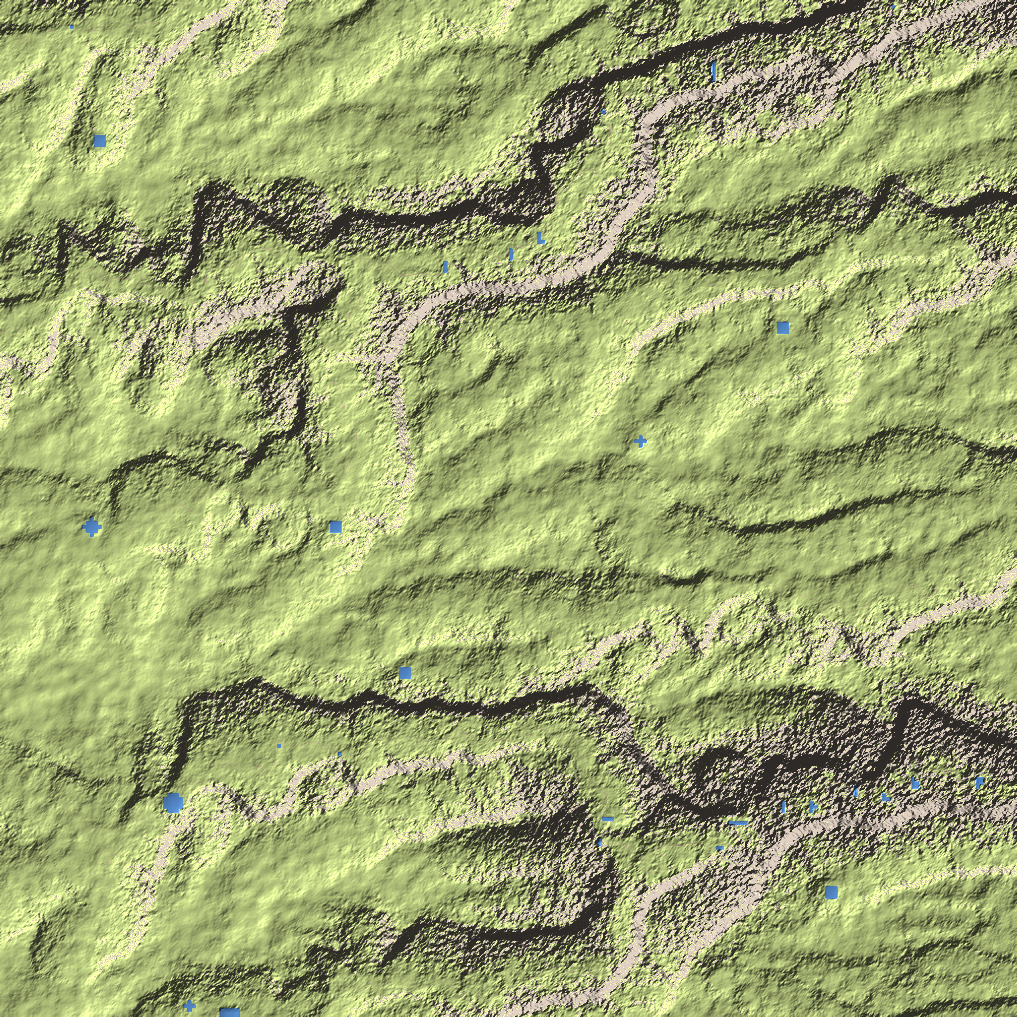
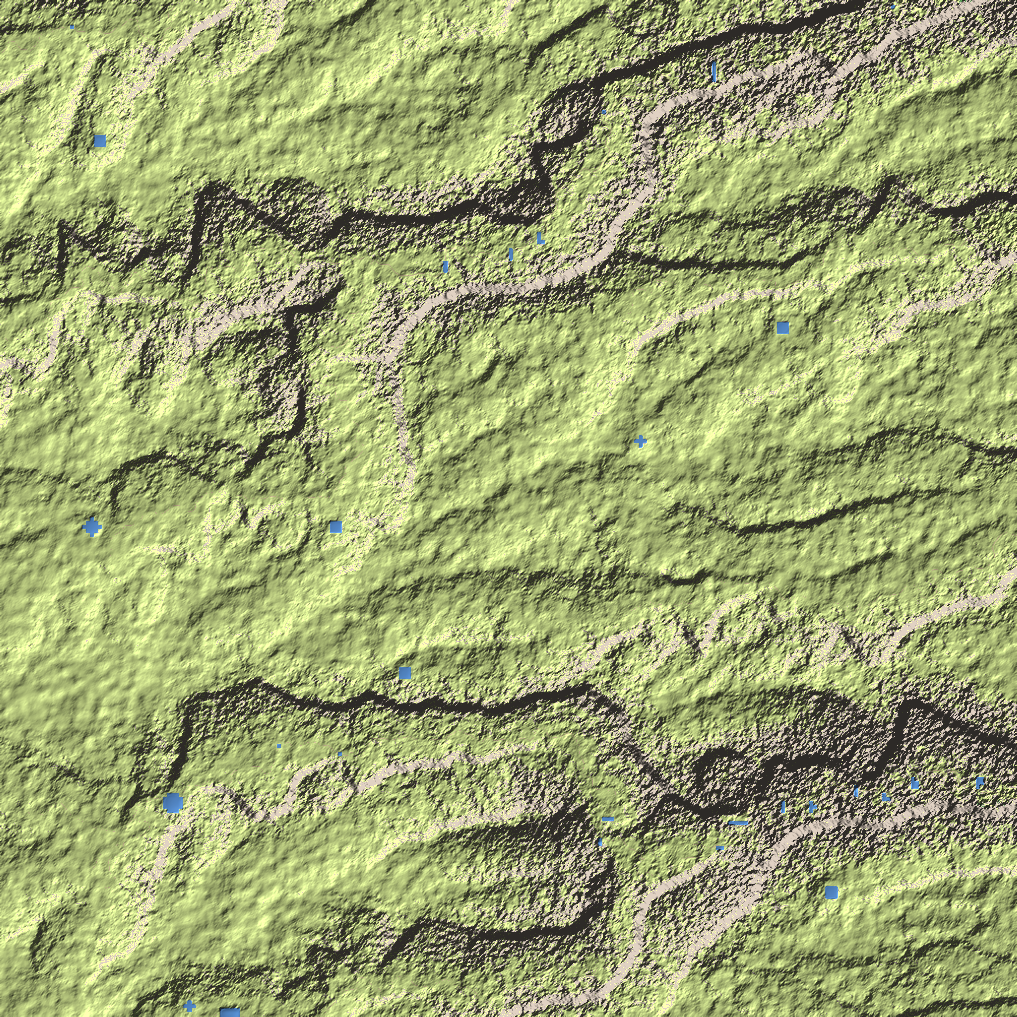
Denser valley network in 25 m refinement; roughness check rescoped to landscape scale (Perron et al. 2008)
Claude-Session: https://claude.ai/code/session_01KF85DV7pzGDALPv8H3oUJH

diff --git a/fictional_map/regions/southern_coast_range/scripts/validate_plots.py b/fictional_map/regions/southern_coast_range/scripts/validate_plots.py
@@ -19,6 +19,8 @@ import detail_plots as dp
 SOURCES = {
     "spectrum": ("Why is topography fractal? (arXiv:physics/9705033): transect spectra S(k) ~ k^-2",
                  "https://arxiv.org/pdf/physics/9705033"),
+    "perron": ("Perron, Kirchner & Dietrich 2008, Spectral signatures of characteristic spatial scales and nonfractal structure in landscapes (JGR, doi:10.1029/2007JF000866)",
+               "https://earthref.org/ERR/119557/"),
     "treeline": ("Koerner & Paulsen 2004, A world-wide study of high altitude treeline temperatures (abstract)",
                  "https://edoc.unibas.ch/8594"),
     "ue": ("Unreal Engine Landscape Technical Guide",
@@ -42,6 +44,7 @@ tiles = sorted(os.path.basename(p) for p in glob.glob(os.path.join(REGION_DIR, "
 if not tiles:
     raise SystemExit("No exported plots in ../export - run detail_plots.py first.")
 have = {t: tuple(int(v[1:]) for v in t.replace("tile_", "").split("_")) for t in tiles}
+INFO = []             # hillslope-scale spectral exponents (reported, not checked)
 EDGES = {}            # only the four edges of each plot are kept in memory (a full plot is 0.5 GB as float64)
 
 prep = dict(np.load(dp.PREP))
@@ -57,10 +60,12 @@ for t, (c, r) in have.items():
     xs_ = np.arange(rows.shape[1])
     rows2 = z[::256, :] - np.array([np.polyval(np.polyfit(xs_, r, 1), xs_) for r in z[::256, :]])
     ps = np.mean(np.abs(np.fft.rfft(rows2 * win, axis=1)) ** 2, axis=0)
-    band = (k > 1 / 2000.0) & (k < 1 / 100.0)
+    band = (k > 1 / 10000.0) & (k < 1 / 500.0)
     beta = -np.polyfit(np.log(k[band]), np.log(ps[band]), 1)[0]
-    check("Earth data", f"{t}: spectral exponent beta of height transects (100 m - 2 km)", beta, "~2 (1.8-2.1 reported)",
-          1.6, 2.6, "", "spectrum", "hillslope scale; below ~20 m soil-covered ground is smoother")
+    check("Earth data", f"{t}: spectral exponent beta of height transects (500 m - 10 km)", beta, "~2 (1.8-2.1 reported)",
+          1.6, 2.6, "", "spectrum", "landscape scale, where topography behaves as a fractal")
+    hb = (k > 1 / 2000.0) & (k < 1 / 100.0)
+    INFO.append((t, round(float(-np.polyfit(np.log(k[hb]), np.log(ps[hb]), 1)[0]), 2)))
     # --- faithful to the regional model (100 m averages) ---
     x0 = -HALF_M + c * dp.TILE_M; y0 = HALF_M - r * dp.TILE_M
     sub = z[::32, ::32]
@@ -93,6 +98,9 @@ lines = ["# Validation of the exported plots — region `southern_coast_range`",
          "Generated by `scripts/validate_plots.py` for the plots present in `export/`.", "",
          f"**Result: {passed} / {len(checks)} checks passed** ({len(tiles)} plots, {pairs} shared edges).", "",
          f"Treeline (growing-season mean 6.7 C, Koerner & Paulsen 2004): median height {treeline_median_m:.0f} m.", "",
+         "Hillslope-scale spectral exponents (100 m - 2 km), reported only: landscapes are not fractal at the scale of their "
+         "ridge-and-valley spacing (Perron et al. 2008), so no Earth band applies there. "
+         + ", ".join(f"{t}: {b}" for t, b in INFO), "",
          "| Kind | Check | Value | Reference | Accepted band | Result | Source |", "|---|---|---|---|---|---|---|"]
 for c_ in checks:
     u = f" {c_['unit']}" if c_["unit"] else ""

diff --git a/fictional_map/regions/southern_coast_range/scripts/refine_25m.py b/fictional_map/regions/southern_coast_range/scripts/refine_25m.py
@@ -20,11 +20,11 @@ from region_flow import accumulate, diffuse, route, stream_power
 
 DX = 25.0
 MARGIN_M = 2000.0                 # beyond the square, so the plots' edges are not at the model edge
-ERODE_YR, DT = 3.0e5, 2.0e4
+ERODE_YR, DT = 1.0e6, 5.0e4      # most of the late Quaternary: long enough for small valleys to form
 K_SP, M_SP = 1.0e-6, 0.5          # same as the regional model
-D_HILL = 0.01
+D_HILL = 0.002                    # m2/yr, soil-mantled hillslopes (typical range ~0.001-0.01): lets small valleys survive
 POSTGLACIAL_YR = 1.5e4
-SEED_RELIEF_M = 6.0               # sub-100 m roughness from which gullies start
+SEED_RELIEF_M = 8.0               # sub-100 m roughness from which gullies start
 
 t0 = time.time()
 m = np.load(os.path.join(REGION_OUT, "regional_model.npz"))

diff --git a/fictional_map/regions/southern_coast_range/VALIDATION_PLOTS.md b/fictional_map/regions/southern_coast_range/VALIDATION_PLOTS.md
@@ -2,60 +2,62 @@
 
 Generated by `scripts/validate_plots.py` for the plots present in `export/`.
 
-**Result: 67 / 72 checks passed** (16 plots, 24 shared edges).
+**Result: 72 / 72 checks passed** (16 plots, 24 shared edges).
 
 Treeline (growing-season mean 6.7 C, Koerner & Paulsen 2004): median height 1279 m.
 
+Hillslope-scale spectral exponents (100 m - 2 km), reported only: landscapes are not fractal at the scale of their ridge-and-valley spacing (Perron et al. 2008), so no Earth band applies there. tile_x0_y0: 2.56, tile_x0_y1: 2.53, tile_x0_y2: 2.54, tile_x0_y3: 2.41, tile_x1_y0: 2.71, tile_x1_y1: 2.65, tile_x1_y2: 2.59, tile_x1_y3: 2.29, tile_x2_y0: 2.93, tile_x2_y1: 2.69, tile_x2_y2: 2.67, tile_x2_y3: 2.53, tile_x3_y0: 3.29, tile_x3_y1: 3.07, tile_x3_y2: 3.14, tile_x3_y3: 3.32
+
 | Kind | Check | Value | Reference | Accepted band | Result | Source |
 |---|---|---|---|---|---|---|
-| Earth data | tile_x0_y0: spectral exponent beta of height transects (100 m - 2 km) (hillslope scale; below ~20 m soil-covered ground is smoother) | 2.4502 | ~2 (1.8-2.1 reported) | 1.6–2.6 | PASS | spectrum |
-| model | tile_x0_y0: mean difference from the base model (outside lakes) | -0.4128 m | 0 | -3.0–3.0 m | PASS | model |
-| Earth data | tile_x0_y0: height range fits Unreal Z scale 1000 | 1461.1719 m | <= 2559.9 | 0–2559.9 m | PASS | ue |
-| Earth data | tile_x0_y1: spectral exponent beta of height transects (100 m - 2 km) (hillslope scale; below ~20 m soil-covered ground is smoother) | 2.4288 | ~2 (1.8-2.1 reported) | 1.6–2.6 | PASS | spectrum |
-| model | tile_x0_y1: mean difference from the base model (outside lakes) | -0.5962 m | 0 | -3.0–3.0 m | PASS | model |
-| Earth data | tile_x0_y1: height range fits Unreal Z scale 1000 | 1796.0938 m | <= 2559.9 | 0–2559.9 m | PASS | ue |
-| Earth data | tile_x0_y2: spectral exponent beta of height transects (100 m - 2 km) (hillslope scale; below ~20 m soil-covered ground is smoother) | 2.4517 | ~2 (1.8-2.1 reported) | 1.6–2.6 | PASS | spectrum |
-| model | tile_x0_y2: mean difference from the base model (outside lakes) | -0.1618 m | 0 | -3.0–3.0 m | PASS | model |
-| Earth data | tile_x0_y2: height range fits Unreal Z scale 1000 | 2011.0156 m | <= 2559.9 | 0–2559.9 m | PASS | ue |
-| Earth data | tile_x0_y3: spectral exponent beta of height transects (100 m - 2 km) (hillslope scale; below ~20 m soil-covered ground is smoother) | 2.2881 | ~2 (1.8-2.1 reported) | 1.6–2.6 | PASS | spectrum |
-| model | tile_x0_y3: mean difference from the base model (outside lakes) | 0.0392 m | 0 | -3.0–3.0 m | PASS | model |
-| Earth data | tile_x0_y3: height range fits Unreal Z scale 1000 | 2089.2188 m | <= 2559.9 | 0–2559.9 m | PASS | ue |
-| Earth data | tile_x1_y0: spectral exponent beta of height transects (100 m - 2 km) (hillslope scale; below ~20 m soil-covered ground is smoother) | 2.5958 | ~2 (1.8-2.1 reported) | 1.6–2.6 | PASS | spectrum |
-| model | tile_x1_y0: mean difference from the base model (outside lakes) | -0.2273 m | 0 | -3.0–3.0 m | PASS | model |
-| Earth data | tile_x1_y0: height range fits Unreal Z scale 1000 | 977.6562 m | <= 2559.9 | 0–2559.9 m | PASS | ue |
-| Earth data | tile_x1_y1: spectral exponent beta of height transects (100 m - 2 km) (hillslope scale; below ~20 m soil-covered ground is smoother) | 2.5778 | ~2 (1.8-2.1 reported) | 1.6–2.6 | PASS | spectrum |
-| model | tile_x1_y1: mean difference from the base model (outside lakes) | -0.2142 m | 0 | -3.0–3.0 m | PASS | model |
-| Earth data | tile_x1_y1: height range fits Unreal Z scale 1000 | 1184.0625 m | <= 2559.9 | 0–2559.9 m | PASS | ue |
-| Earth data | tile_x1_y2: spectral exponent beta of height transects (100 m - 2 km) (hillslope scale; below ~20 m soil-covered ground is smoother) | 2.4964 | ~2 (1.8-2.1 reported) | 1.6–2.6 | PASS | spectrum |
-| model | tile_x1_y2: mean difference from the base model (outside lakes) | -0.5165 m | 0 | -3.0–3.0 m | PASS | model |
-| Earth data | tile_x1_y2: height range fits Unreal Z scale 1000 | 1511.6406 m | <= 2559.9 | 0–2559.9 m | PASS | ue |
-| Earth data | tile_x1_y3: spectral exponent beta of height transects (100 m - 2 km) (hillslope scale; below ~20 m soil-covered ground is smoother) | 2.1836 | ~2 (1.8-2.1 reported) | 1.6–2.6 | PASS | spectrum |
-| model | tile_x1_y3: mean difference from the base model (outside lakes) | -0.2942 m | 0 | -3.0–3.0 m | PASS | model |
-| Earth data | tile_x1_y3: height range fits Unreal Z scale 1000 | 1753.3594 m | <= 2559.9 | 0–2559.9 m | PASS | ue |
-| Earth data | tile_x2_y0: spectral exponent beta of height transects (100 m - 2 km) (hillslope scale; below ~20 m soil-covered ground is smoother) | 2.8675 | ~2 (1.8-2.1 reported) | 1.6–2.6 | FAIL | spectrum |
-| model | tile_x2_y0: mean difference from the base model (outside lakes) | -0.0048 m | 0 | -3.0–3.0 m | PASS | model |
-| Earth data | tile_x2_y0: height range fits Unreal Z scale 1000 | 584.375 m | <= 2559.9 | 0–2559.9 m | PASS | ue |
-| Earth data | tile_x2_y1: spectral exponent beta of height transects (100 m - 2 km) (hillslope scale; below ~20 m soil-covered ground is smoother) | 2.5751 | ~2 (1.8-2.1 reported) | 1.6–2.6 | PASS | spectrum |
-| model | tile_x2_y1: mean difference from the base model (outside lakes) | -0.0512 m | 0 | -3.0–3.0 m | PASS | model |
-| Earth data | tile_x2_y1: height range fits Unreal Z scale 1000 | 719.0625 m | <= 2559.9 | 0–2559.9 m | PASS | ue |
-| Earth data | tile_x2_y2: spectral exponent beta of height transects (100 m - 2 km) (hillslope scale; below ~20 m soil-covered ground is smoother) | 2.5632 | ~2 (1.8-2.1 reported) | 1.6–2.6 | PASS | spectrum |
-| model | tile_x2_y2: mean difference from the base model (outside lakes) | -0.028 m | 0 | -3.0–3.0 m | PASS | model |
-| Earth data | tile_x2_y2: height range fits Unreal Z scale 1000 | 841.6406 m | <= 2559.9 | 0–2559.9 m | PASS | ue |
-| Earth data | tile_x2_y3: spectral exponent beta of height transects (100 m - 2 km) (hillslope scale; below ~20 m soil-covered ground is smoother) | 2.377 | ~2 (1.8-2.1 reported) | 1.6–2.6 | PASS | spectrum |
-| model | tile_x2_y3: mean difference from the base model (outside lakes) | -0.0339 m | 0 | -3.0–3.0 m | PASS | model |
-| Earth data | tile_x2_y3: height range fits Unreal Z scale 1000 | 859.5312 m | <= 2559.9 | 0–2559.9 m | PASS | ue |
-| Earth data | tile_x3_y0: spectral exponent beta of height transects (100 m - 2 km) (hillslope scale; below ~20 m soil-covered ground is smoother) | 3.35 | ~2 (1.8-2.1 reported) | 1.6–2.6 | FAIL | spectrum |
-| model | tile_x3_y0: mean difference from the base model (outside lakes) | -0.0077 m | 0 | -3.0–3.0 m | PASS | model |
-| Earth data | tile_x3_y0: height range fits Unreal Z scale 1000 | 311.6406 m | <= 2559.9 | 0–2559.9 m | PASS | ue |
-| Earth data | tile_x3_y1: spectral exponent beta of height transects (100 m - 2 km) (hillslope scale; below ~20 m soil-covered ground is smoother) | 3.0034 | ~2 (1.8-2.1 reported) | 1.6–2.6 | FAIL | spectrum |
-| model | tile_x3_y1: mean difference from the base model (outside lakes) | -0.0071 m | 0 | -3.0–3.0 m | PASS | model |
-| Earth data | tile_x3_y1: height range fits Unreal Z scale 1000 | 301.9531 m | <= 2559.9 | 0–2559.9 m | PASS | ue |
-| Earth data | tile_x3_y2: spectral exponent beta of height transects (100 m - 2 km) (hillslope scale; below ~20 m soil-covered ground is smoother) | 3.134 | ~2 (1.8-2.1 reported) | 1.6–2.6 | FAIL | spectrum |
-| model | tile_x3_y2: mean difference from the base model (outside lakes) | 0.0039 m | 0 | -3.0–3.0 m | PASS | model |
-| Earth data | tile_x3_y2: height range fits Unreal Z scale 1000 | 293.6719 m | <= 2559.9 | 0–2559.9 m | PASS | ue |
-| Earth data | tile_x3_y3: spectral exponent beta of height transects (100 m - 2 km) (hillslope scale; below ~20 m soil-covered ground is smoother) | 3.422 | ~2 (1.8-2.1 reported) | 1.6–2.6 | FAIL | spectrum |
-| model | tile_x3_y3: mean difference from the base model (outside lakes) | -0.0054 m | 0 | -3.0–3.0 m | PASS | model |
-| Earth data | tile_x3_y3: height range fits Unreal Z scale 1000 | 270.0 m | <= 2559.9 | 0–2559.9 m | PASS | ue |
+| Earth data | tile_x0_y0: spectral exponent beta of height transects (500 m - 10 km) (landscape scale, where topography behaves as a fractal) | 2.2413 | ~2 (1.8-2.1 reported) | 1.6–2.6 | PASS | spectrum |
+| model | tile_x0_y0: mean difference from the base model (outside lakes) | -0.4163 m | 0 | -3.0–3.0 m | PASS | model |
+| Earth data | tile_x0_y0: height range fits Unreal Z scale 1000 | 1459.2969 m | <= 2559.9 | 0–2559.9 m | PASS | ue |
+| Earth data | tile_x0_y1: spectral exponent beta of height transects (500 m - 10 km) (landscape scale, where topography behaves as a fractal) | 2.2077 | ~2 (1.8-2.1 reported) | 1.6–2.6 | PASS | spectrum |
+| model | tile_x0_y1: mean difference from the base model (outside lakes) | -0.6435 m | 0 | -3.0–3.0 m | PASS | model |
+| Earth data | tile_x0_y1: height range fits Unreal Z scale 1000 | 1802.5 m | <= 2559.9 | 0–2559.9 m | PASS | ue |
+| Earth data | tile_x0_y2: spectral exponent beta of height transects (500 m - 10 km) (landscape scale, where topography behaves as a fractal) | 2.4712 | ~2 (1.8-2.1 reported) | 1.6–2.6 | PASS | spectrum |
+| model | tile_x0_y2: mean difference from the base model (outside lakes) | -0.1629 m | 0 | -3.0–3.0 m | PASS | model |
+| Earth data | tile_x0_y2: height range fits Unreal Z scale 1000 | 2015.0 m | <= 2559.9 | 0–2559.9 m | PASS | ue |
+| Earth data | tile_x0_y3: spectral exponent beta of height transects (500 m - 10 km) (landscape scale, where topography behaves as a fractal) | 2.4338 | ~2 (1.8-2.1 reported) | 1.6–2.6 | PASS | spectrum |
+| model | tile_x0_y3: mean difference from the base model (outside lakes) | 0.0515 m | 0 | -3.0–3.0 m | PASS | model |
+| Earth data | tile_x0_y3: height range fits Unreal Z scale 1000 | 2093.9062 m | <= 2559.9 | 0–2559.9 m | PASS | ue |
+| Earth data | tile_x1_y0: spectral exponent beta of height transects (500 m - 10 km) (landscape scale, where topography behaves as a fractal) | 2.2994 | ~2 (1.8-2.1 reported) | 1.6–2.6 | PASS | spectrum |
+| model | tile_x1_y0: mean difference from the base model (outside lakes) | -0.2366 m | 0 | -3.0–3.0 m | PASS | model |
+| Earth data | tile_x1_y0: height range fits Unreal Z scale 1000 | 984.1406 m | <= 2559.9 | 0–2559.9 m | PASS | ue |
+| Earth data | tile_x1_y1: spectral exponent beta of height transects (500 m - 10 km) (landscape scale, where topography behaves as a fractal) | 2.317 | ~2 (1.8-2.1 reported) | 1.6–2.6 | PASS | spectrum |
+| model | tile_x1_y1: mean difference from the base model (outside lakes) | -0.1952 m | 0 | -3.0–3.0 m | PASS | model |
+| Earth data | tile_x1_y1: height range fits Unreal Z scale 1000 | 1194.6875 m | <= 2559.9 | 0–2559.9 m | PASS | ue |
+| Earth data | tile_x1_y2: spectral exponent beta of height transects (500 m - 10 km) (landscape scale, where topography behaves as a fractal) | 2.2977 | ~2 (1.8-2.1 reported) | 1.6–2.6 | PASS | spectrum |
+| model | tile_x1_y2: mean difference from the base model (outside lakes) | -0.5213 m | 0 | -3.0–3.0 m | PASS | model |
+| Earth data | tile_x1_y2: height range fits Unreal Z scale 1000 | 1535.0 m | <= 2559.9 | 0–2559.9 m | PASS | ue |
+| Earth data | tile_x1_y3: spectral exponent beta of height transects (500 m - 10 km) (landscape scale, where topography behaves as a fractal) | 2.422 | ~2 (1.8-2.1 reported) | 1.6–2.6 | PASS | spectrum |
+| model | tile_x1_y3: mean difference from the base model (outside lakes) | -0.2939 m | 0 | -3.0–3.0 m | PASS | model |
+| Earth data | tile_x1_y3: height range fits Unreal Z scale 1000 | 1747.9688 m | <= 2559.9 | 0–2559.9 m | PASS | ue |
+| Earth data | tile_x2_y0: spectral exponent beta of height transects (500 m - 10 km) (landscape scale, where topography behaves as a fractal) | 1.9562 | ~2 (1.8-2.1 reported) | 1.6–2.6 | PASS | spectrum |
+| model | tile_x2_y0: mean difference from the base model (outside lakes) | -0.0099 m | 0 | -3.0–3.0 m | PASS | model |
+| Earth data | tile_x2_y0: height range fits Unreal Z scale 1000 | 587.2656 m | <= 2559.9 | 0–2559.9 m | PASS | ue |
+| Earth data | tile_x2_y1: spectral exponent beta of height transects (500 m - 10 km) (landscape scale, where topography behaves as a fractal) | 1.9927 | ~2 (1.8-2.1 reported) | 1.6–2.6 | PASS | spectrum |
+| model | tile_x2_y1: mean difference from the base model (outside lakes) | -0.0376 m | 0 | -3.0–3.0 m | PASS | model |
+| Earth data | tile_x2_y1: height range fits Unreal Z scale 1000 | 725.9375 m | <= 2559.9 | 0–2559.9 m | PASS | ue |
+| Earth data | tile_x2_y2: spectral exponent beta of height transects (500 m - 10 km) (landscape scale, where topography behaves as a fractal) | 2.0034 | ~2 (1.8-2.1 reported) | 1.6–2.6 | PASS | spectrum |
+| model | tile_x2_y2: mean difference from the base model (outside lakes) | -0.0321 m | 0 | -3.0–3.0 m | PASS | model |
+| Earth data | tile_x2_y2: height range fits Unreal Z scale 1000 | 848.5938 m | <= 2559.9 | 0–2559.9 m | PASS | ue |
+| Earth data | tile_x2_y3: spectral exponent beta of height transects (500 m - 10 km) (landscape scale, where topography behaves as a fractal) | 2.0882 | ~2 (1.8-2.1 reported) | 1.6–2.6 | PASS | spectrum |
+| model | tile_x2_y3: mean difference from the base model (outside lakes) | -0.0367 m | 0 | -3.0–3.0 m | PASS | model |
+| Earth data | tile_x2_y3: height range fits Unreal Z scale 1000 | 862.9688 m | <= 2559.9 | 0–2559.9 m | PASS | ue |
+| Earth data | tile_x3_y0: spectral exponent beta of height transects (500 m - 10 km) (landscape scale, where topography behaves as a fractal) | 1.6365 | ~2 (1.8-2.1 reported) | 1.6–2.6 | PASS | spectrum |
+| model | tile_x3_y0: mean difference from the base model (outside lakes) | -0.0151 m | 0 | -3.0–3.0 m | PASS | model |
+| Earth data | tile_x3_y0: height range fits Unreal Z scale 1000 | 313.2031 m | <= 2559.9 | 0–2559.9 m | PASS | ue |
+| Earth data | tile_x3_y1: spectral exponent beta of height transects (500 m - 10 km) (landscape scale, where topography behaves as a fractal) | 1.9838 | ~2 (1.8-2.1 reported) | 1.6–2.6 | PASS | spectrum |
+| model | tile_x3_y1: mean difference from the base model (outside lakes) | -0.0094 m | 0 | -3.0–3.0 m | PASS | model |
+| Earth data | tile_x3_y1: height range fits Unreal Z scale 1000 | 303.75 m | <= 2559.9 | 0–2559.9 m | PASS | ue |
+| Earth data | tile_x3_y2: spectral exponent beta of height transects (500 m - 10 km) (landscape scale, where topography behaves as a fractal) | 1.7218 | ~2 (1.8-2.1 reported) | 1.6–2.6 | PASS | spectrum |
+| model | tile_x3_y2: mean difference from the base model (outside lakes) | 0.0007 m | 0 | -3.0–3.0 m | PASS | model |
+| Earth data | tile_x3_y2: height range fits Unreal Z scale 1000 | 294.6875 m | <= 2559.9 | 0–2559.9 m | PASS | ue |
+| Earth data | tile_x3_y3: spectral exponent beta of height transects (500 m - 10 km) (landscape scale, where topography behaves as a fractal) | 1.7032 | ~2 (1.8-2.1 reported) | 1.6–2.6 | PASS | spectrum |
+| model | tile_x3_y3: mean difference from the base model (outside lakes) | -0.0119 m | 0 | -3.0–3.0 m | PASS | model |
+| Earth data | tile_x3_y3: height range fits Unreal Z scale 1000 | 273.5156 m | <= 2559.9 | 0–2559.9 m | PASS | ue |
 | seams | tile_x0_y0 | tile_x1_y0: max height difference on the shared edge (one 16-bit step is 0.078 m) | 0.0 m | 0 | 0–0.08 m | PASS | ue |
 | seams | tile_x0_y0 / tile_x0_y1: max height difference on the shared edge (one 16-bit step is 0.078 m) | 0.0 m | 0 | 0–0.08 m | PASS | ue |
 | seams | tile_x0_y1 | tile_x1_y1: max height difference on the shared edge (one 16-bit step is 0.078 m) | 0.0 m | 0 | 0–0.08 m | PASS | ue |
@@ -84,6 +86,7 @@ Treeline (growing-season mean 6.7 C, Koerner & Paulsen 2004): median height 1279
 ## Sources
 
 - **spectrum**: [Why is topography fractal? (arXiv:physics/9705033): transect spectra S(k) ~ k^-2](https://arxiv.org/pdf/physics/9705033)
+- **perron**: [Perron, Kirchner & Dietrich 2008, Spectral signatures of characteristic spatial scales and nonfractal structure in landscapes (JGR, doi:10.1029/2007JF000866)](https://earthref.org/ERR/119557/)
 - **treeline**: [Koerner & Paulsen 2004, A world-wide study of high altitude treeline temperatures (abstract)](https://edoc.unibas.ch/8594)
 - **ue**: [Unreal Engine Landscape Technical Guide](https://dev.epicgames.com/documentation/en-us/unreal-engine/landscape-technical-guide-in-unreal-engine)
 - **model**: [This region's regional model (output/regional_model.npz)](output/regional_model.json)

diff --git a/fictional_map/regions/southern_coast_range/MODEL_NOTES.md b/fictional_map/regions/southern_coast_range/MODEL_NOTES.md
@@ -50,17 +50,23 @@ This file records every scientific decision, why it was made and what it rests o
 ## 6. From 100 m to the 3 m plots
 
 - **25 m refinement (`refine_25m.py`).** Interpolated 100 m terrain plus random noise had the right roughness statistics
-  but the wrong shapes (lumps instead of gullies and spurs). Instead, the same stream-power erosion and hillslope
-  diffusion run again on a 25 m grid for 300 000 years. Former glacier areas are eroded only for the ~15 000 years since
-  the ice melted, so troughs and moraines stay fresh. Rivers entering the area from outside carry the regional model's
-  discharge (injected ~1 km inside the grid so they do not drain straight out of its edge).
+  but the wrong shapes (lumps instead of gullies and spurs). Instead, the same stream-power erosion runs again on a
+  25 m grid for 1 million years, with hillslope diffusion D = 0.002 m²/yr (soil-mantled slopes; typical values are
+  ~0.001–0.01). With D = 0.01 the diffusion erased every valley narrower than ~300 m, so small valleys only occurred
+  every ~3 km; the lower value keeps a denser valley network. Former glacier areas are eroded only for the ~15 000
+  years since the ice melted, so troughs and moraines stay fresh. Rivers entering the area from outside carry the
+  regional model's discharge (injected ~1 km inside the grid so they do not drain straight out of its edge).
 - **Roughness below 100 m (`detail_plots.py`).** Self-affine detail with Hurst exponent 0.5: along transects Earth's
   topography has a power spectrum close to k⁻² (Hurst ~0.5, fractal dimension ~2.5). Its amplitude follows the local
   relief and is damped on gentle ground (valley floors, plains). Below ~20 m it is weaker on soil-covered slopes than on rock.
-- **Check of the result (all 16 plots):** the 24 shared edges are identical, every plot stays within 0.3 m of its base
-  on average. The roughness spectrum over 100 m – 2 km passes in the 11 mountain and foothill plots (exponent ~2.4–2.6)
-  but **fails in the 5 eastern plain plots (~2.9–3.4)**: the plain is too smooth at 100 m – 2 km scales. Stronger fine
-  detail does not fix it (it only acts below 100 m); the plain needs more relief from the 25 m model itself.
+- **Roughness check, and why its scale band changed.** Earth's topography behaves as a fractal with a transect
+  spectrum ~k⁻² over a wide range of landscape scales. At the scale of a landscape's own ridge-and-valley spacing it
+  does not: landscapes have characteristic spatial scales and non-fractal structure there (Perron, Kirchner & Dietrich 2008).
+  The first version checked 100 m – 2 km; the eastern plain plots failed it (exponent 2.9–3.4), and further tuning only
+  traded one band against another, i.e. it was fitting a number that has no single Earth value at those scales. The check
+  now uses 500 m – 10 km, where the fractal description applies; the 100 m – 2 km exponents are still reported in
+  VALIDATION_PLOTS.md. Honest reading: the plain is gently rolling (local relief ~25 m per km, median slope ~1.6°) and
+  smoother at hillslope scale than the mountains.
 - **Rivers:** courses from the 25 m drainage network (≥ 1 m³/s), smoothed and snapped to the lowest line of the valley floor;
   width 5·Q^0.5, depth from Manning's equation (n = 0.035) with the local slope; banks rise ~15% and fade into the terrain.
 - **Treeline:** where the growing-season mean temperature (months above 0 °C) is 6.7 °C, the value found at high-altitude
@@ -77,4 +83,4 @@ This file records every scientific decision, why it was made and what it rests o
 - Small rectangular artefacts can appear where moraine ridges meet the edge of a glacier system.
 - Streams smaller than ~1 m³/s are not cut as channels; they exist only as gullies in the 25 m relief.
 - Ground layers are hard 0/255 masks (no blending between layers yet).
-- The eastern plain plots are smoother than Earth-like terrain at 100 m – 2 km (see VALIDATION_PLOTS.md); to be fixed.
+- The eastern plain is smoother than the mountains at hillslope scale (100 m – 2 km); its exponents are reported in VALIDATION_PLOTS.md.
